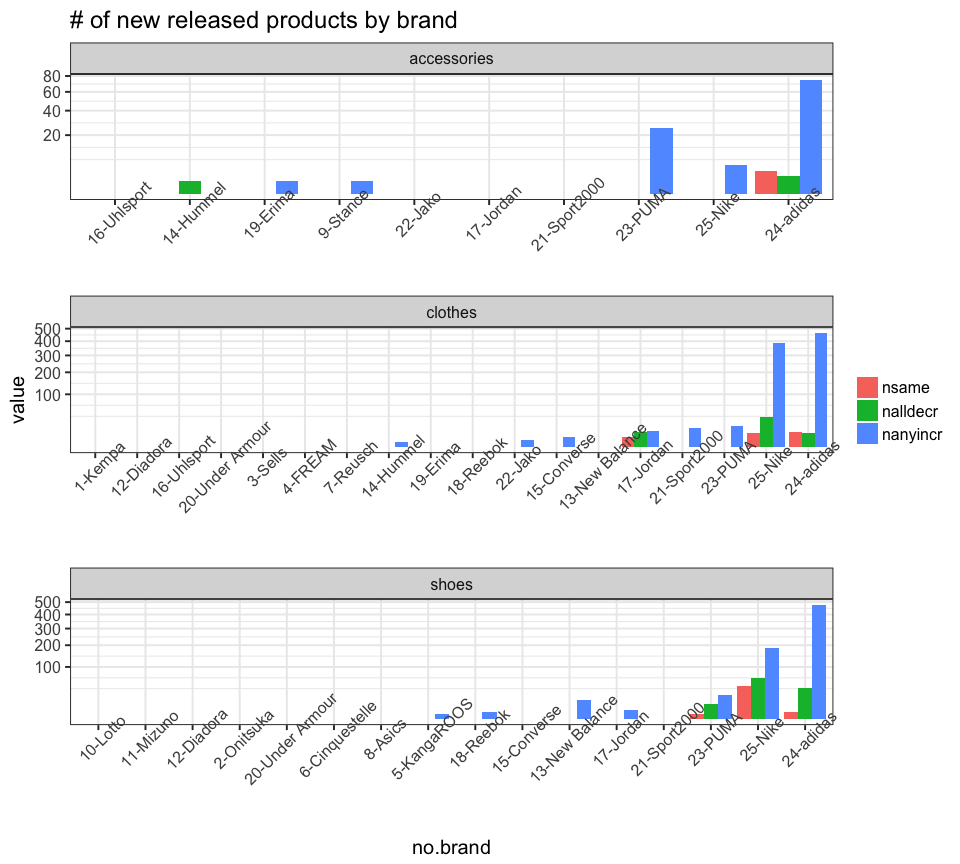
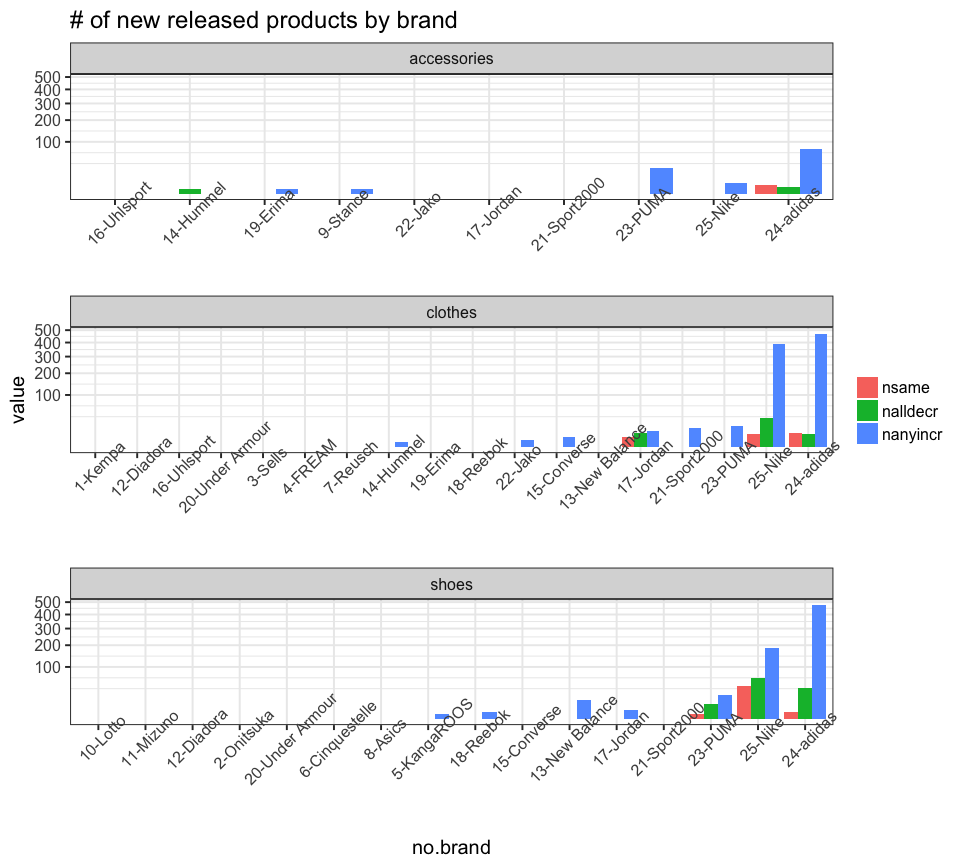
fix y-scale

diff --git a/users/XiaodanLyu/README.md b/users/XiaodanLyu/README.md
@@ -112,7 +112,8 @@ items %>%
   scale_fill_brewer(palette = "Paired") + scale_y_log10() +
   geom_boxplot(outlier.size = .5) + guides(fill = FALSE) +
   geom_hline(yintercept = 100, color = "red", linetype = 2) +
-  facet_wrap(~ctgroup, scales = "free", nrow = 3) + 
+  geom_hline(yintercept = 10, linetype = 2) +
+  facet_wrap(~ctgroup, scales = "free_x", nrow = 3) + 
   theme_mine()
 ```
 
@@ -392,10 +393,10 @@ items.brand %>% group_by(no.brand, category, ctgroup) %>% tally %>% ungroup %>%
   ggplot(aes(x = no.brand, y = n, fill = category)) +
   geom_bar(stat = "identity", position = "dodge") +
   geom_hline(yintercept = 10, linetype = 2) +
-  geom_hline(yintercept = 100, linetype = 2) +
+  geom_hline(yintercept = 100, linetype = 2, col = "red") +
   scale_fill_brewer(palette = "Paired") + scale_y_log10() +
   labs(y = "# of items") +
-  facet_wrap(~ctgroup, scales = "free", nrow = 3) +
+  facet_wrap(~ctgroup, scales = "free_x", nrow = 3) +
   theme_mine()
 ```
 
@@ -414,8 +415,8 @@ items.brand %>% mutate(no.brand = fct_reorder(no.brand, stock, sum)) %>%
   scale_fill_brewer(palette = "Paired") + scale_y_log10() + 
   geom_bar(stat = "identity", position = "dodge") +
   geom_hline(yintercept = 10, linetype = 2) +
-  geom_hline(yintercept = 500, linetype = 2) +
-  facet_wrap(~ctgroup, nrow = 3, scales = "free") +
+  geom_hline(yintercept = 1000, linetype = 2, col = "red") +
+  facet_wrap(~ctgroup, nrow = 3, scales = "free_x") +
   theme_mine() 
 ```
 
@@ -457,7 +458,8 @@ items.brand %>%
   geom_bar(stat = "identity", position = "dodge") +
   ylab("median recommended retail price") +
   geom_hline(yintercept = 25, linetype = 2) +
-  facet_wrap(~ctgroup, nrow = 3, scales = "free") +
+  geom_hline(yintercept = 100, linetype = 2, col = "red") +
+  facet_wrap(~ctgroup, nrow = 3, scales = "free_x") +
   scale_fill_brewer(palette = "Paired") +
   guides(color = FALSE) + theme_mine()
 ```
@@ -473,9 +475,10 @@ alldata %>% group_by(brand, category, ctgroup) %>%
   ggplot(aes(x = brand, y = n, fill = category)) +
   geom_bar(stat = "identity", position = "dodge") + 
   geom_hline(yintercept = 10, linetype = 2) +
+  geom_hline(yintercept = 1000, linetype = 2, col = "red") +
   scale_fill_brewer(palette = "Paired") + scale_y_log10() +
   labs(y = "sale volumes during Oct-Jan by brand") +
-  facet_wrap(~ctgroup, scales = "free", nrow = 3) +
+  facet_wrap(~ctgroup, scales = "free_x", nrow = 3) +
   theme_mine()
 ```
 
@@ -523,7 +526,7 @@ brands.check %>% select(ctgroup, nanyincr:no.brand) %>%
   gather(group, value, -no.brand, -ctgroup) %>% 
   mutate(group = fct_relevel(group, "nalldecr", "nanyincr", after = Inf)) %>%
   ggplot(aes(x = no.brand, y = value, fill = group)) + scale_y_sqrt() +
-  facet_wrap(~ctgroup, scales = "free", nrow = 3) +
+  facet_wrap(~ctgroup, scales = "free_x", nrow = 3) +
   geom_bar(stat = "identity", position = "dodge") +
   labs(title = "# of new released products by brand", fill = "") + 
   theme_mine()
@@ -704,7 +707,7 @@ items %>%
   geom_boxplot(outlier.size = 0.5) +
   geom_hline(yintercept = 10, linetype = 2) +
   scale_fill_brewer(palette = "Paired") +
-  facet_wrap(~ctgroup, nrow = 3, scales = "free") +
+  facet_wrap(~ctgroup, nrow = 3, scales = "free_x") +
   scale_y_log10() + theme_mine()
 ```
 
@@ -746,9 +749,13 @@ alldata %>% group_by(pid, size, subCategory) %>%
 alldata %>% inner_join(check, by = c("pid", "size", "brand", "ctgroup")) %>%
   # mutate(category = paste(mainCategory, category, sep = "-")) %>%
   filter(yn.pricechange) %>% group_by(date, category, ctgroup) %>%
-  summarise(discount = mean(discount)) %>% ungroup %>%
+  summarise(discount = median(discount)) %>% ungroup %>%
   ggplot(aes(x = date, y = discount, color = factor(category))) + 
-  geom_line(size = rel(1)) + facet_grid(ctgroup~.) +
+  ggtitle("median discount by category and date") + 
+  geom_line(size = rel(1)) + 
+  geom_hline(yintercept = 25, linetype = 2) +
+  facet_grid(ctgroup~.) +
+  scale_y_continuous(limits = c(0, 75)) +
   scale_color_brewer(palette = "Paired") + theme_bw(base_size = 15) +
   geom_vline(xintercept = ymd("2017-10-31"), linetype = 2, size = rel(0.8)) +
   geom_vline(xintercept = ymd("2017-11-24"), linetype = 2, size = rel(0.8)) +
@@ -806,8 +813,9 @@ alldata %>% inner_join(check, by = c("pid", "size", "brand", "ctgroup")) %>%
   ggplot(aes(x = subCategory, y = discount, fill = category), color = FALSE) +
   scale_fill_brewer(palette = "Paired") +
   geom_boxplot(outlier.size = 0.5) + guides(fill = FALSE) +
-  facet_wrap(~ctgroup, scales = "free", nrow = 3) +
-  geom_hline(yintercept = 40, color = "red", linetype = 2) +
+  facet_wrap(~ctgroup, scales = "free_x", nrow = 3) +
+  scale_y_continuous(limits = c(0, 100)) +
+  geom_hline(yintercept = 25, color = "red", linetype = 2) +
   theme_mine()
 ```
 
@@ -820,8 +828,10 @@ alldata %>% inner_join(check, by = c("pid", "size", "brand", "ctgroup")) %>%
   filter(yn.newrelease, !yn.pricechange, !duplicated(cbind(pid, size))) %>% 
   ggplot(aes(x = subCategory, y = discount, fill = category), color = FALSE) +
   scale_fill_brewer(palette = "Paired") +
+  scale_y_continuous(limits = c(0, 100)) +
   geom_boxplot(outlier.size = 0.5) + guides(fill = FALSE) +
-  facet_wrap(~ctgroup, scales = "free", nrow = 3) +
+  geom_hline(yintercept = 25, color = "red", linetype = 2) +
+  facet_wrap(~ctgroup, scales = "free_x", nrow = 3) +
   theme_mine()
 ```
 
